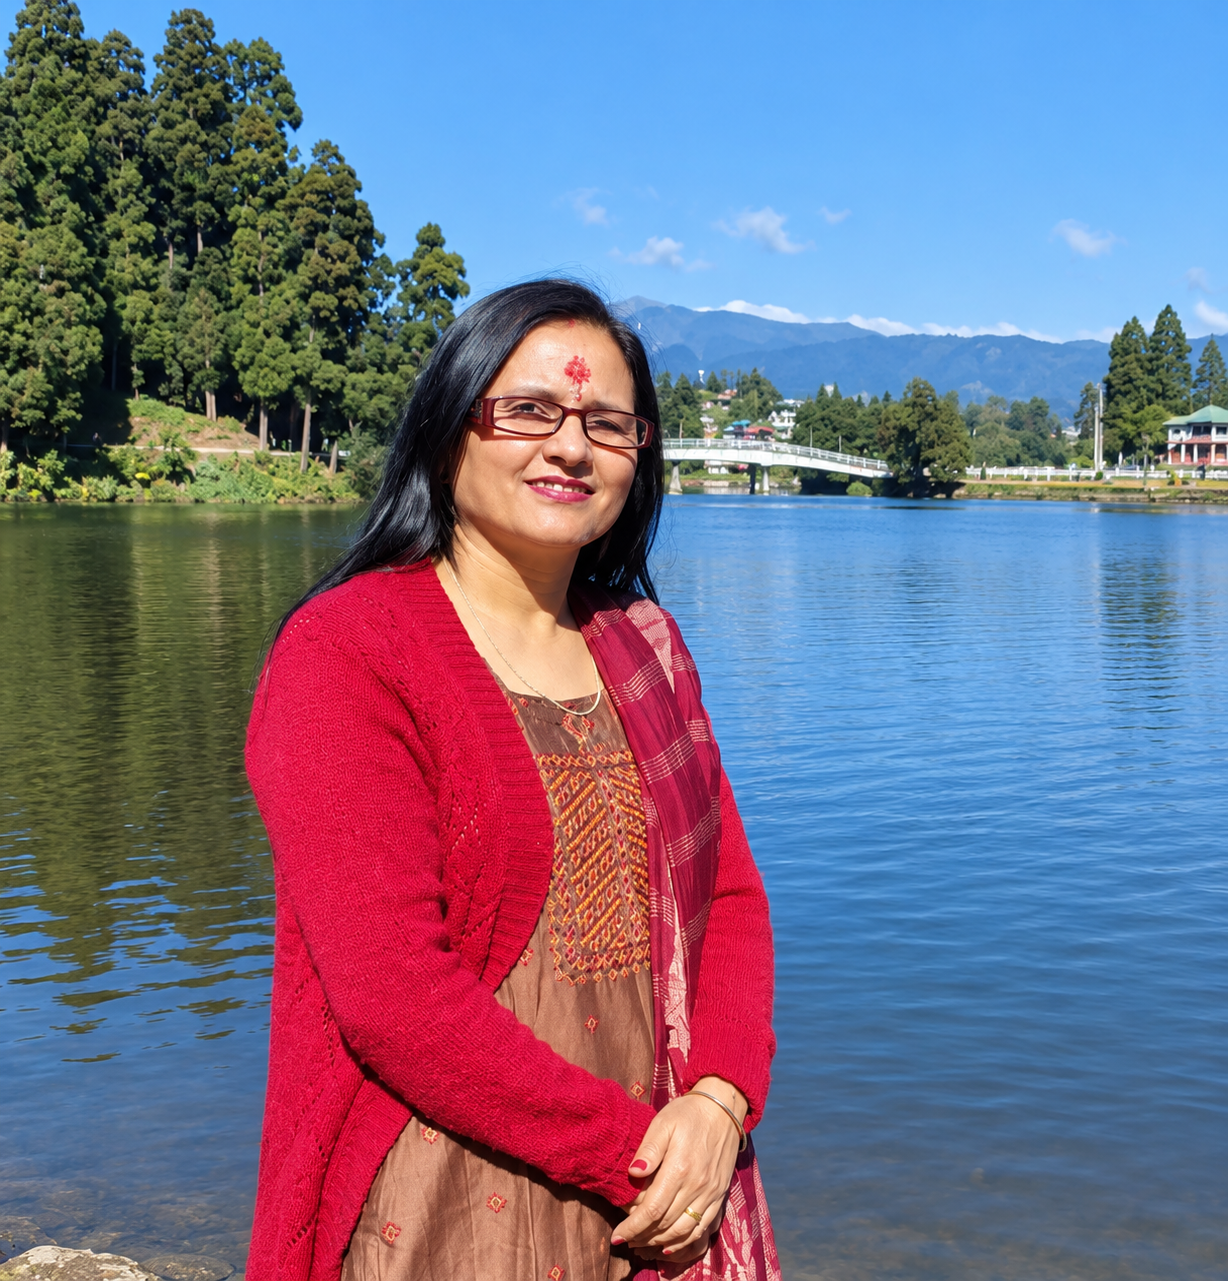
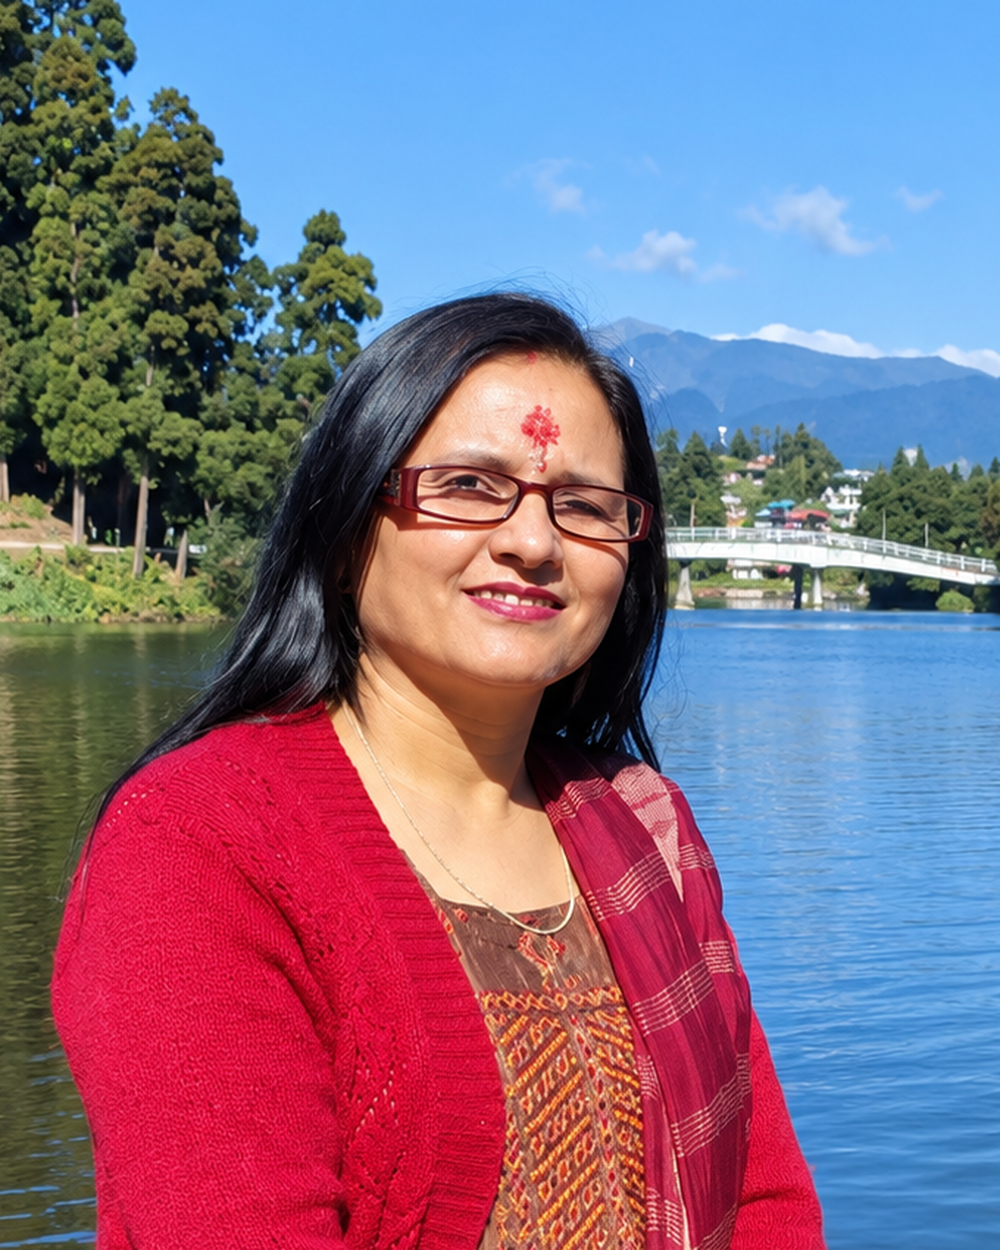
feat: add about page, doctor videos component, and site configuration data

diff --git a/src/data/legacy.ts b/src/data/legacy.ts
@@ -69,6 +69,29 @@ export const cofounder = {
   ] as L[],
 };
 
+export const cofounder1 = {
+  name: { en: "Tika Chettri", ne: "टीका छेत्री", bn: "টিকা ছেত্রী" } as L,
+  role: {
+    en: "Co-founder & Family Relative",
+    ne: "सह-संस्थापक तथा पारिवारिक आफन्त",
+    bn: "সহ-প্রতিষ্ঠাতা ও পারিবারিক আত্মীয়",
+  } as L,
+  photo: "/images/tika1.png",
+  photoIsPlaceholder: false,
+  intro: [
+    {
+      en: "A professional nurse and a close relative of the Kundu family, Tika Chettri has been a guiding presence in Radha Madhav's journey since its founding days. While her independent nursing service is practiced outside Radha Madhav Medical Hall, her healthcare experience and family ties helped shape the clinic's spirit of attentive, caring service.",
+      ne: "एक पेशेवर नर्स तथा कुण्डु परिवारकी नजिककी आफन्त, टीका छेत्री यसको स्थापना कालदेखि नै राधा माधवको यात्रामा एक मार्गदर्शकका रूपमा रहनुभएको छ। उहाँको व्यावसायिक नर्सिङ सेवा राधा माधव मेडिकल हलभन्दा बाहिर स्वतन्त्र रूपमा रहे तापनि, उहाँको स्वास्थ्यसम्बन्धी दृष्टिकोण र पारिवारिक साथले संस्थाको सेवाभावलाई दिशानिर्देश गर्न मद्दत पुर्यायो।",
+      bn: "পেশাদার নার্স এবং কুণ্ডু পরিবারের ঘনিষ্ঠ আত্মীয়, টিকা ছেত্রী প্রতিষ্ঠার সূচনালগ্ন থেকেই রাধা মাধবের পথচলার অন্যতম অনুপ্রেরণা। যদিও তাঁর নিজস্ব নার্সিং কর্মজীবন রাধা মাধব মেডিক্যাল হলের বাইরে পরিচালিত, তবুও তাঁর চিকিৎসা সংক্রান্ত দৃষ্টিভঙ্গি ও পারিবারিক ঘনিষ্ঠতা হলের সেবামূলক আদর্শকে আরও সমৃদ্ধ করেছে।",
+    },
+    {
+      en: "As a co-founder rooted in family trust, she stood firmly beside Dr. Swapan Kumar Kundu and Pushpalata Gurung during the hall's formative years in Mirik, offering enduring encouragement and vital support to their shared mission.",
+      ne: "पारिवारिक विश्वासमा आधारित सह-संस्थापकका रूपमा, उहाँले मिरिकमा हल स्थापनाका सुरुवाती वर्षहरूमा डा. स्वपन कुमार कुण्डु र पुष्पलता गुरुङलाई निरन्तर हौसला र महत्त्वपूर्ण सहयोग प्रदान गर्नुभयो।",
+      bn: "পারিবারিক আস্থার ভিত্তিতে একজন সহ-প্রতিষ্ঠাতা হিসেবে, তিনি মিরিকে হলের শুরুর দিনগুলোতে ডা. স্বপন কুমার কুণ্ডু ও পুষ্পলতা গুরুংয়ের পাশে থেকে অবিচল উৎসাহ ও নির্ভরতা জুগিয়েছেন।",
+    },
+  ] as L[],
+};
+
 export const custodian = {
   name: { en: "Dr. Subhendu Kundu", ne: "डा. शुभेन्दु कुण्डु", bn: "ডা. শুভেন্দু কুণ্ডু" } as L,
   role: {

diff --git a/src/i18n/ui.ts b/src/i18n/ui.ts
@@ -189,7 +189,6 @@ export const ui = {
     "contact.email": "Email",
     "contact.hours": "Working hours",
     "contact.maps": "Open in Google Maps",
-    "contact.sample": "Email is a sample. Edit before going live",
     "contact.mapTitle": "Map showing Radhamadhav Medical Hall, Mirik",
     "contact.callBtn": "Call",
     "contact.waBtn": "WhatsApp",
@@ -410,7 +409,7 @@ export const ui = {
     "contact.email": "इमेल",
     "contact.hours": "खुल्ने समय",
     "contact.maps": "गुगल म्यापमा खोल्नुहोस्",
-    "contact.sample": "इमेल नमुना हो, लाइभ जानुअघि सम्पादन गर्नुहोस्",
+
     "contact.mapTitle": "राधामाधव मेडिकल हल, मिरिक देखाउने नक्सा",
     "contact.callBtn": "फोन",
     "contact.waBtn": "WhatsApp",
@@ -630,7 +629,6 @@ export const ui = {
     "contact.email": "ইমেল",
     "contact.hours": "খোলার সময়",
     "contact.maps": "গুগল ম্যাপে খুলুন",
-    "contact.sample": "ইমেলটি নমুনা, লাইভ করার আগে বদলান",
     "contact.mapTitle": "রাধামাধব মেডিক্যাল হল, মিরিক দেখানো মানচিত্র",
     "contact.callBtn": "কল",
     "contact.waBtn": "WhatsApp",

diff --git a/src/data/videos.ts b/src/data/videos.ts
@@ -10,7 +10,7 @@ export interface DoctorVideo {
   /** youtube: a Shorts/watch URL · instagram: the reel URL · mp4: a file in public/videos · none: poster only */
   platform: VideoPlatform;
   src: string;
-  poster: string;
+  poster?: string;
   /** Shown while the clip is a stand-in. Flip to false once `src` is the real reel. */
   isPlaceholder: boolean;
 }
@@ -33,7 +33,7 @@ export const doctorVideos: DoctorVideo[] = [
     },
     platform: "none",
     src: "",
-    poster: "/images/doctors/drabul.webp",
+    poster: "/images/doctors/drabul-square.png",
     isPlaceholder: true,
   },
   {
@@ -50,7 +50,7 @@ export const doctorVideos: DoctorVideo[] = [
     },
     platform: "none",
     src: "",
-    poster: "/images/doctors/drrichard.webp",
+    poster: "/images/doctors/drrichard-square.png",
     isPlaceholder: true,
   },
   {
@@ -84,7 +84,7 @@ export const doctorVideos: DoctorVideo[] = [
     },
     platform: "none",
     src: "",
-    poster: "/images/doctors/drsourav.webp",
+    poster: "/images/doctors/drsourav.png",
     isPlaceholder: true,
   },
 ];

diff --git a/src/data/site.ts b/src/data/site.ts
@@ -12,7 +12,7 @@ export const site = {
   whatsappDisplay: "+91 70636 57635",
   whatsappHref:
     "https://wa.me/919434431319?text=Namaste%2C%20I%20have%20a%20query%20for%20Radhamadhav%20Medical%20Hall.",
-  email: "hello@radhamadhavmedicalhall.sample",
+  email: "radhamadhavmirik@gmail.com",
 
   // Address lines & hours are translated  see src/i18n/ui.ts ("address.*", "hours.*").
   locality: "Mirik",

diff --git a/src/styles/global.css b/src/styles/global.css
@@ -3243,6 +3243,11 @@ html[data-lang="bn"] .hero h1 {
   gap: 28px;
   align-items: start;
 }
+.founder-col {
+  display: flex;
+  flex-direction: column;
+  gap: 28px;
+}
 .founders .legacy-portrait {
   width: 100%;
   aspect-ratio: 3 / 4;
